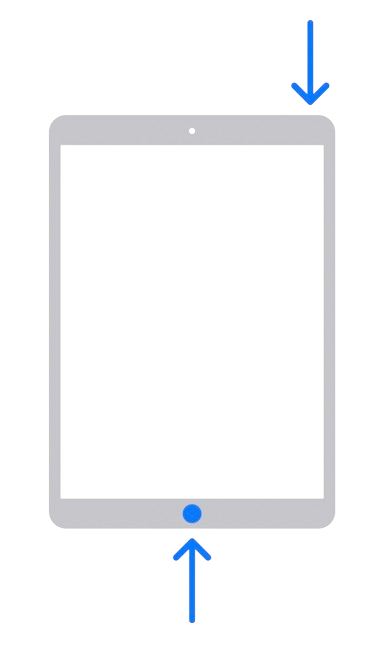
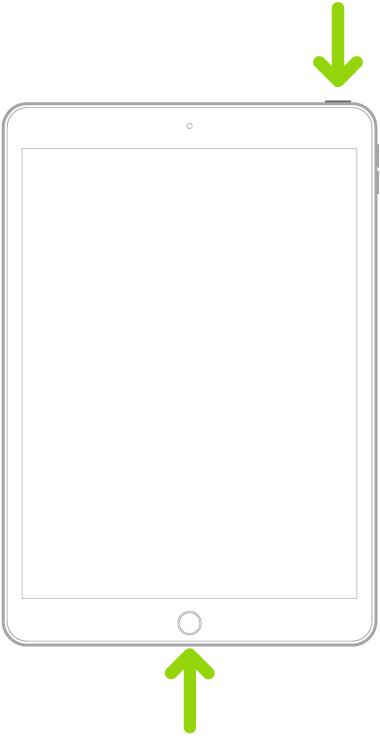
update how to take screenshots and screen recordings

Changed region(s): [[0.0289, 0.0, 1.0, 1.0], [0.0, 0.1543, 0.0289, 0.8642]]

diff --git a/public/markdown/track_b/00-ipad-and-swift.md b/public/markdown/track_b/00-ipad-and-swift.md
@@ -77,10 +77,13 @@
 <div style="display: flex;">
     <ul style="width:60%">
         <li>Every lesson, we'll ask you to export a screenshot, so it's easier for us to take a look without having to connect to (and mess up) your iCloud version.</li>
-        <li>Press the home and power buttons at the same time to take a screenshot. </li>
-        <li>With Apple Pencil, you can also draw in from the bottom left..</li>
+        <li>On an iPad with a home button: Press the home and power buttons at the same time to take a screenshot. </li>
+        </li>
+        <li>On an iPad without a home button: Quickly press and release the top button and either volume button at the same time. </li>
+        <li>With Apple Pencil, swipe up diagonally from either corner at the bottom of the screen.</li>
     </ul>
     <img src="/markdown/track_b/assets/ipad-screenshot.png" alt="Taking screenshots on iPads">
+    <img src="/markdown/track_b/assets/ipad-screenshot-without-home-button.png" alt="Taking screenshots on iPads">
 </div>
 
 ---
@@ -89,13 +92,14 @@
 
 <div style="display: flex;">
     <ul style="width:60%">
-        <li>First, ensure that the Screen Recording setting in Control Center is enabled</li>
-            <ul>
-                <li>Go to Settings → Control Center, then tap the Add Button <img style="margin-bottom: -4px" src="/markdown/track_b/assets/plus_button.svg" alt="Plus Button" height="32px"> next to Screen Recording</li>
-            </ul>
-        <li>Open the Control Center by swiping down from the top-right of the screen</li>
+        <li>
+            Open the Control Center by swiping down from the top-right of the screen
         </li>
+        <li>
             Tap the Record Button, wait for the three-second countdown. Then, tap it again to stop the recording
+        </li>
+        <li> 
+            If the record button is not there, tap the <code>+</code> button at the top left hand corner → <code> Add a Control</code> → Screen Recording
         </li>
     </ul>
      <img style="width:50%" src="/markdown/track_b/assets/ipad-screenrecording-ss.png">
